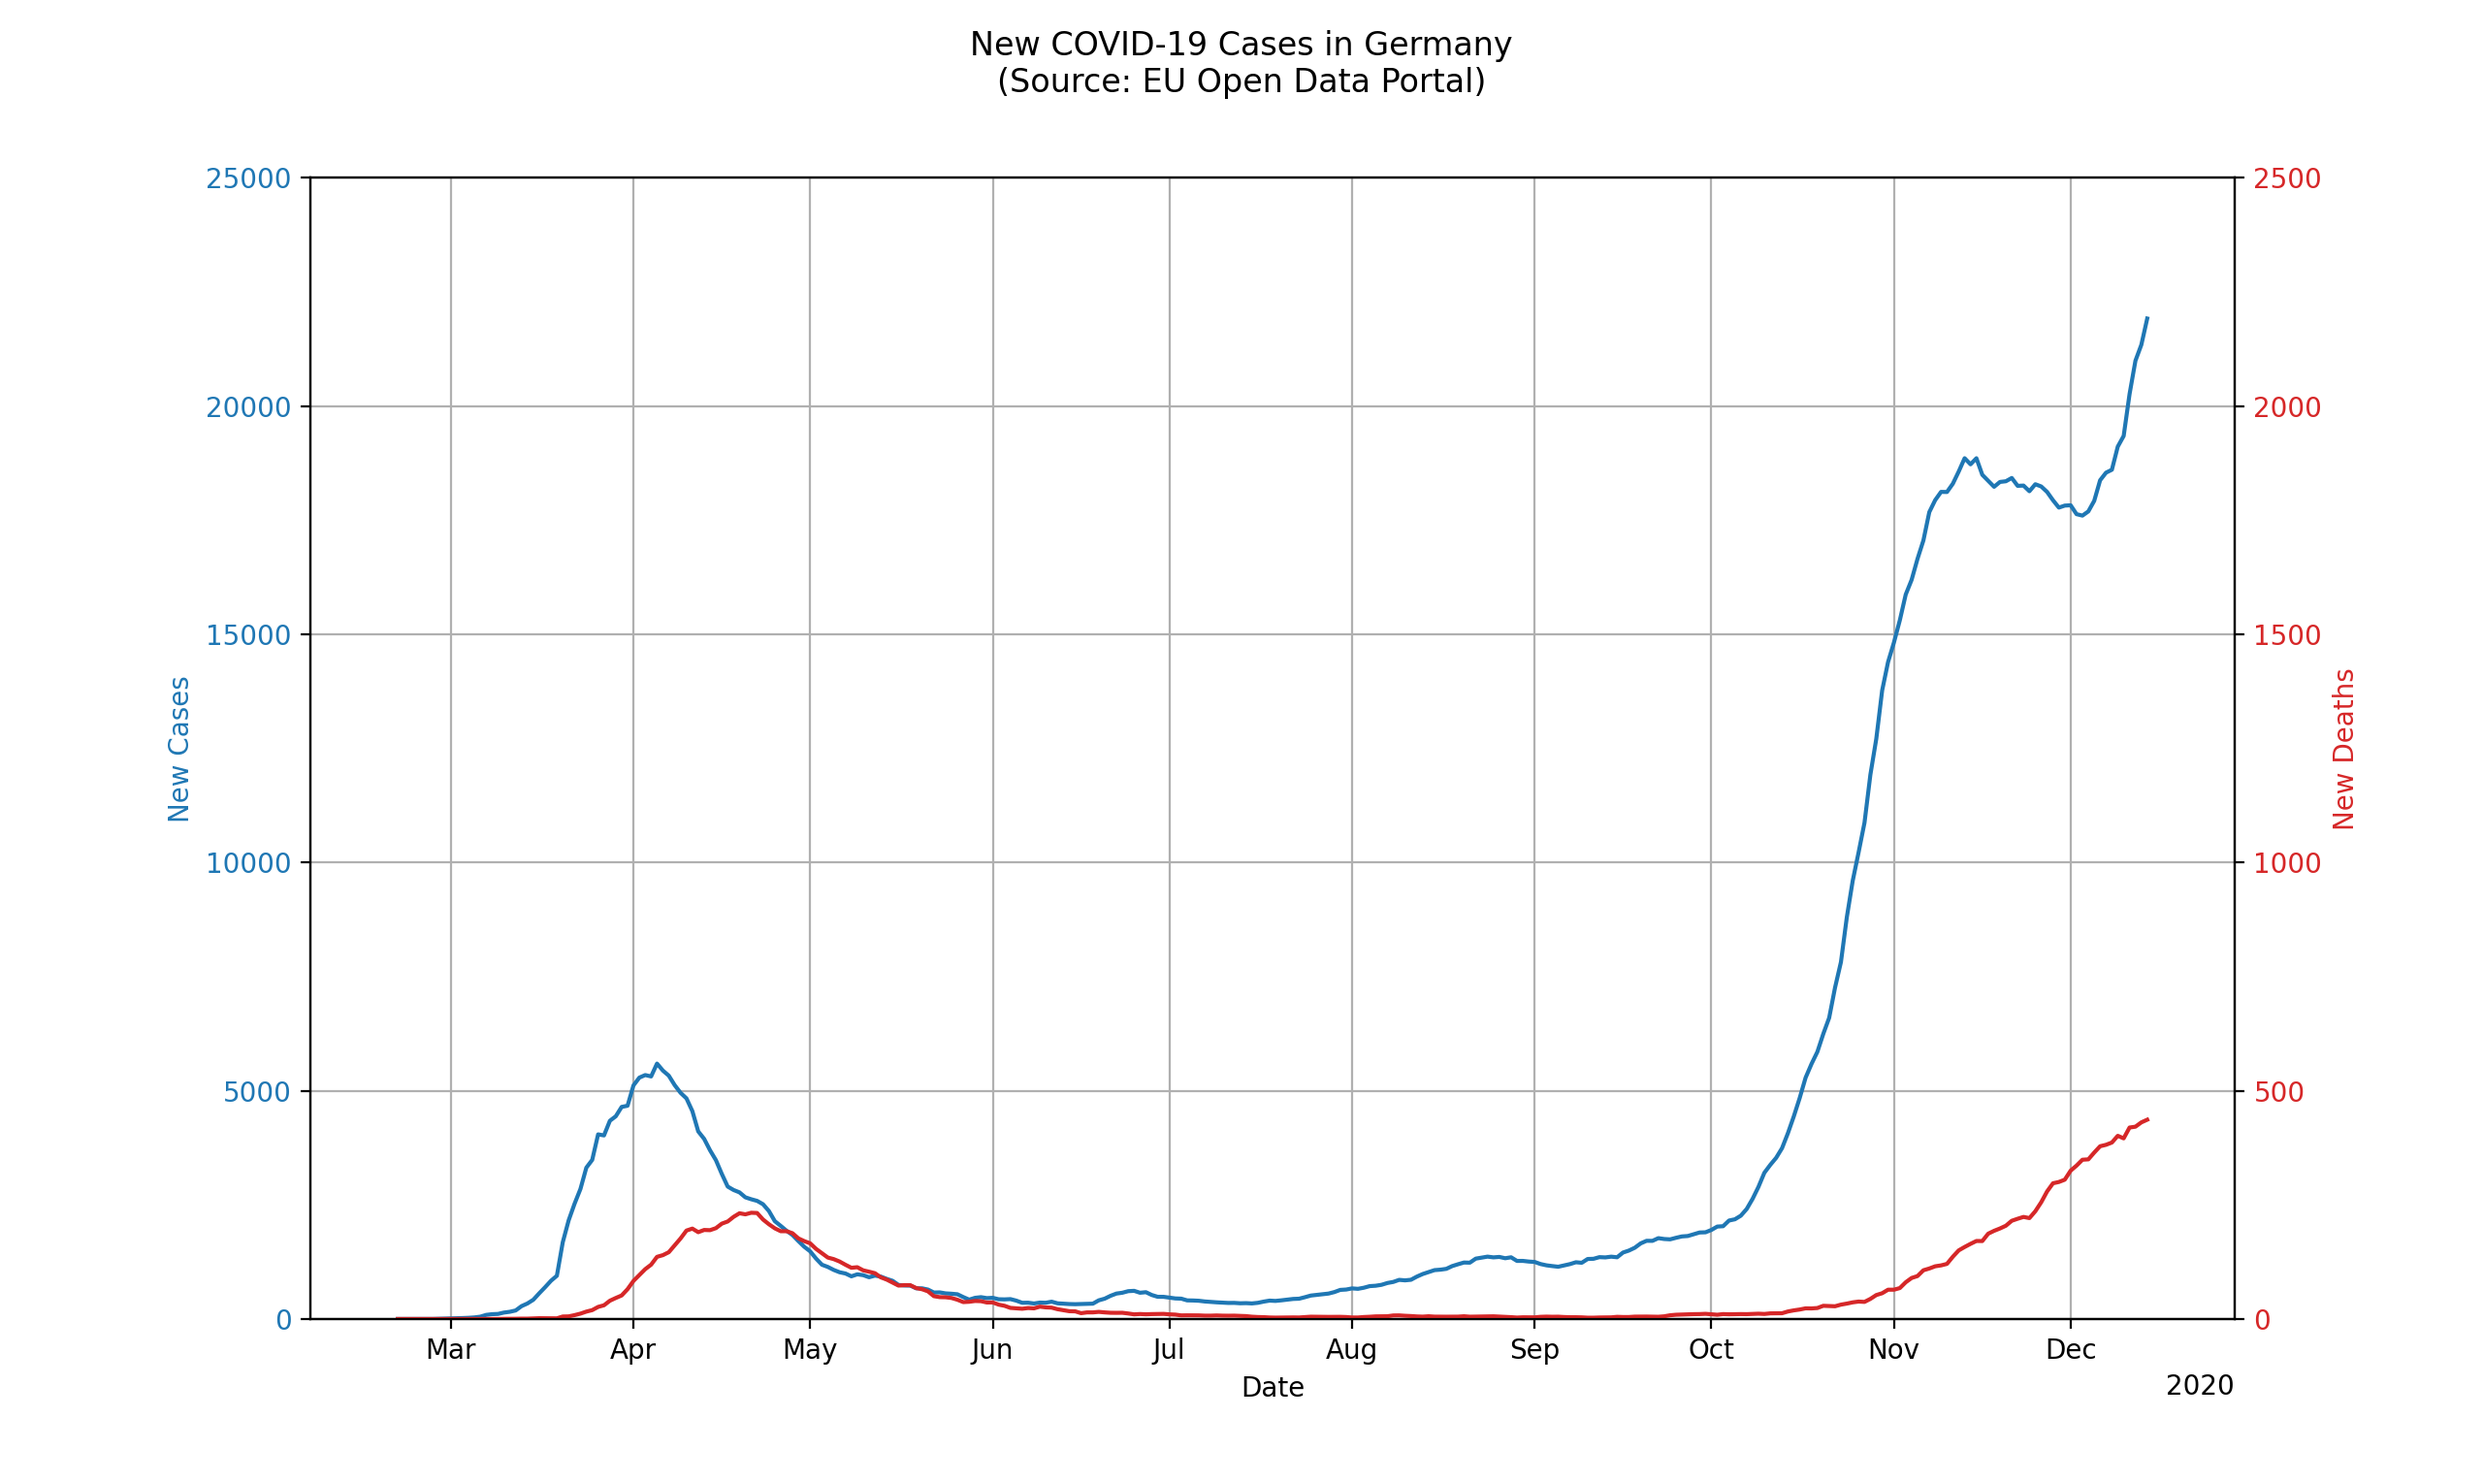
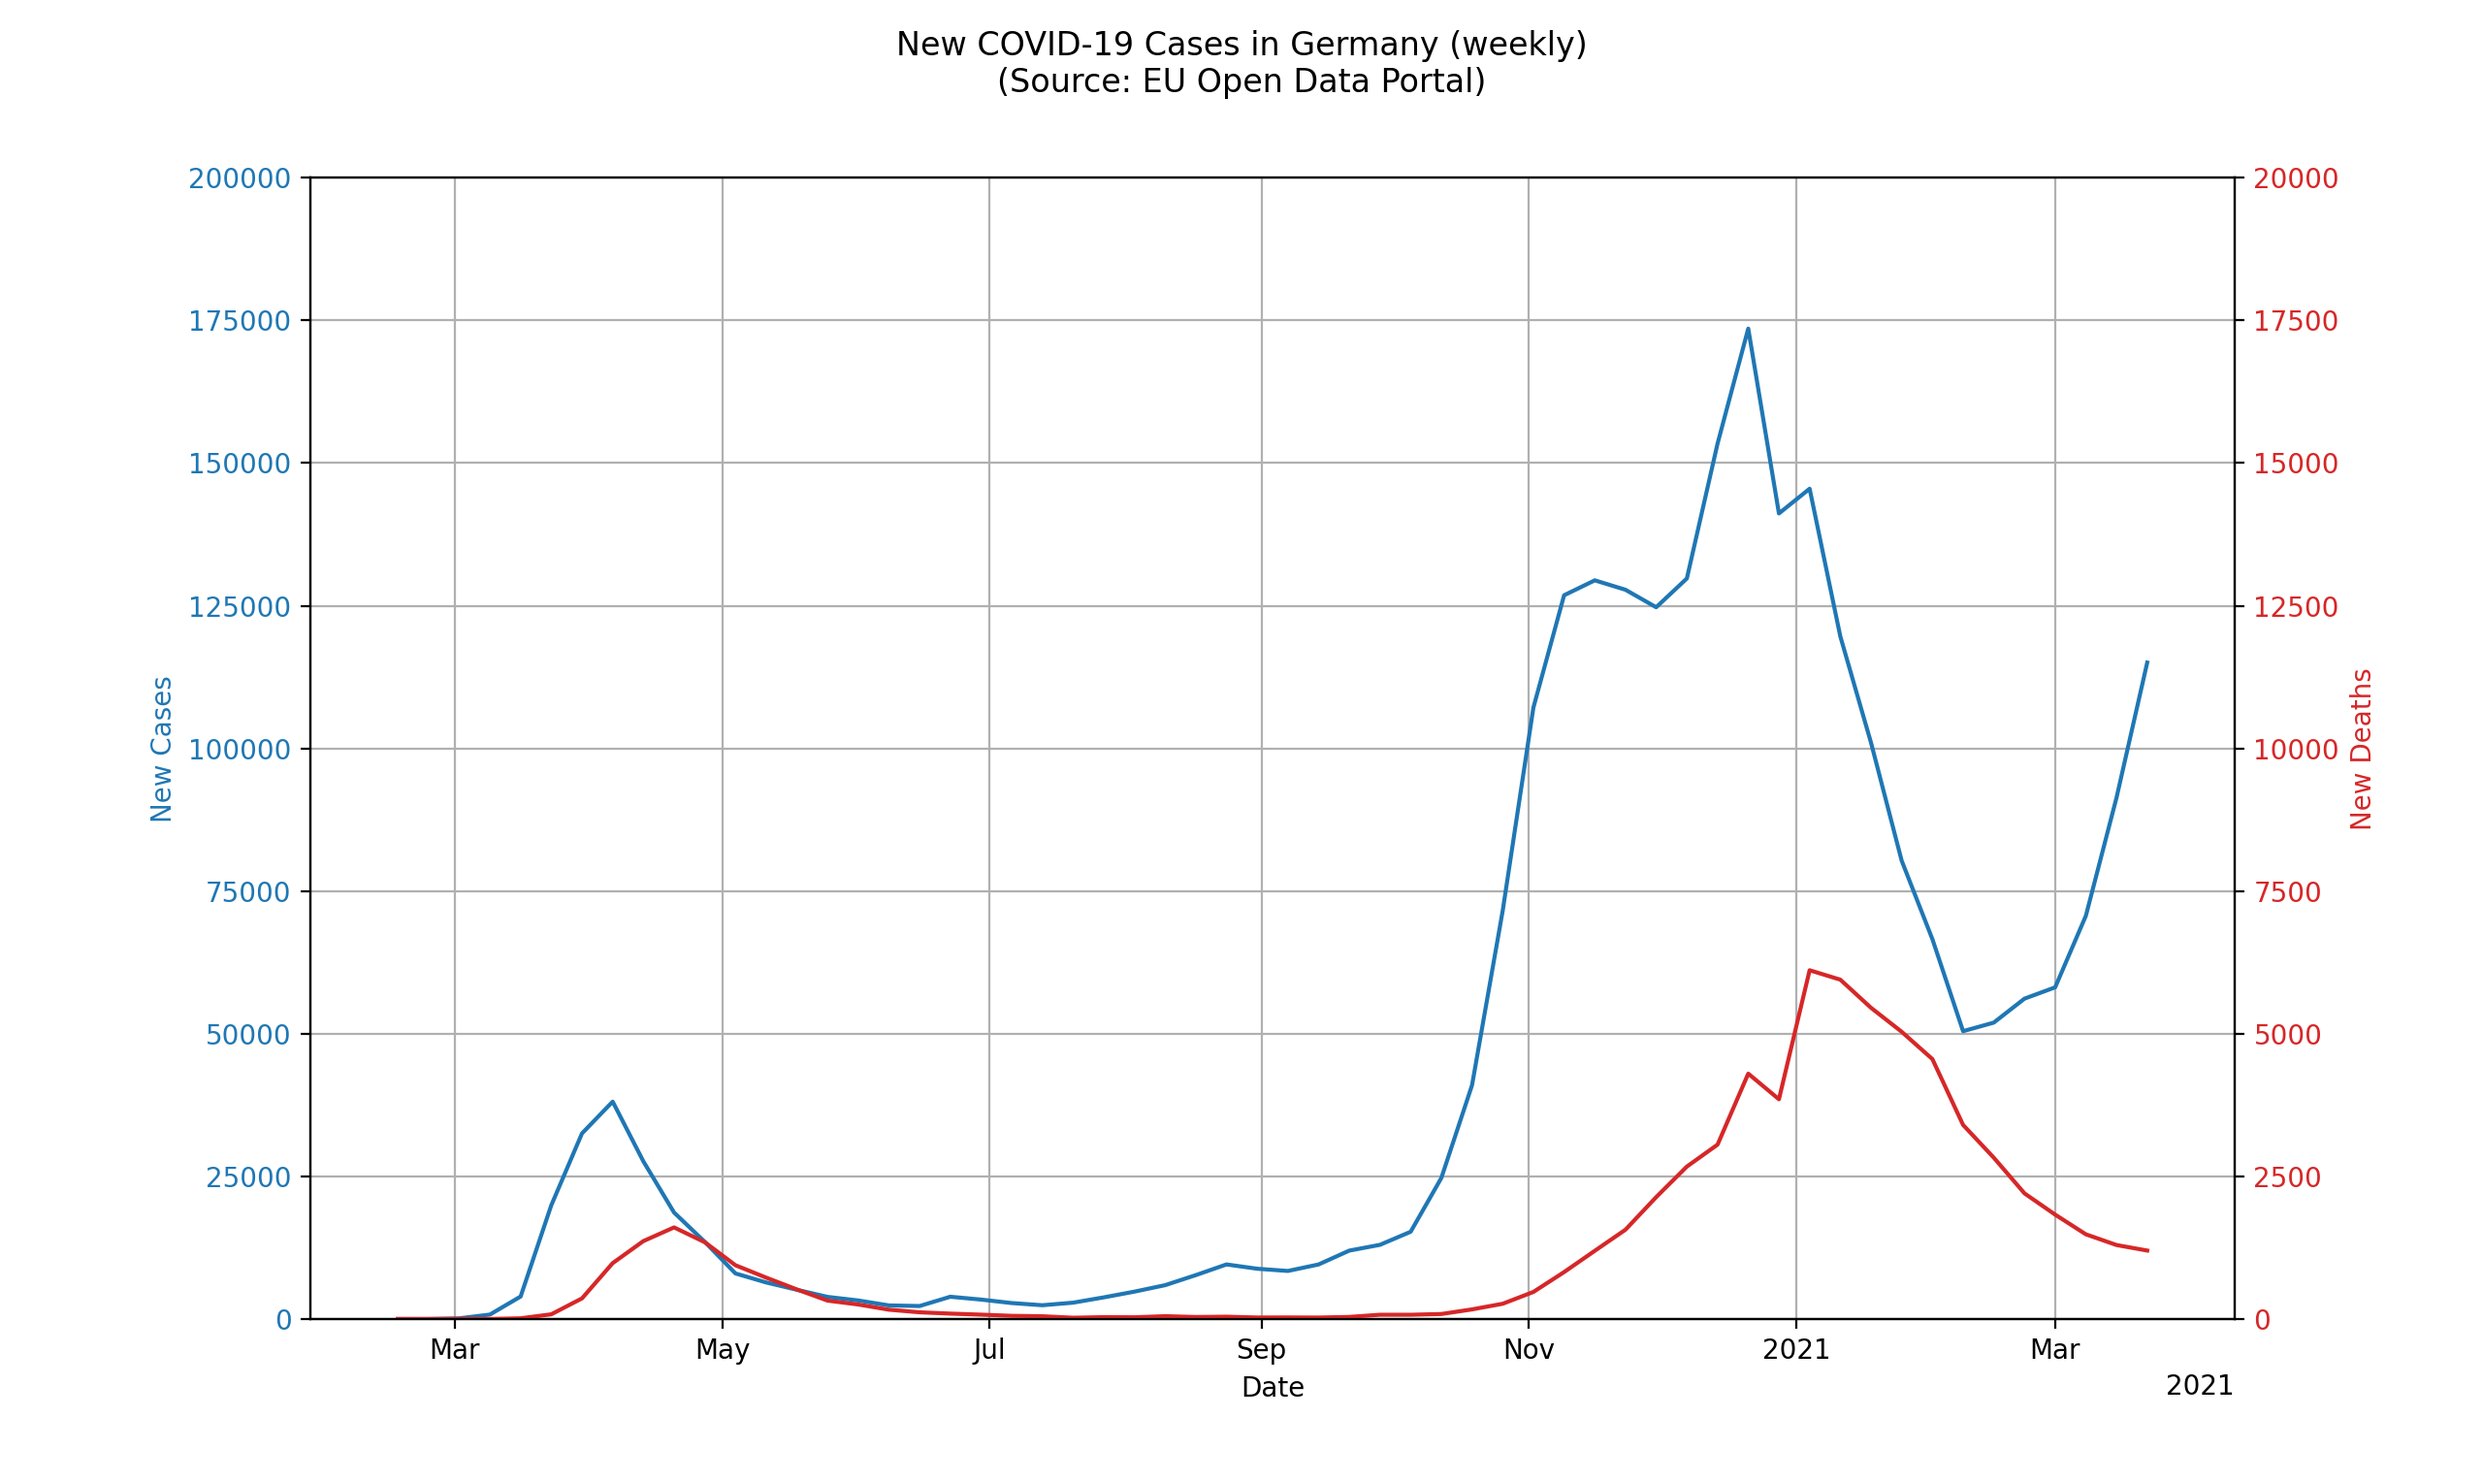
weekly update for 2021 added

diff --git a/corona_analysis.py b/corona_analysis.py
@@ -6,6 +6,7 @@ from matplotlib.ticker import FuncFormatter as frmt
 
 from models.BaseModel import db
 from models.CoronaCases import CoronaCases
+from models.CoronaCasesWeekly import CoronaCasesWeekly
 from models.DeathsGermany import DeathsGermany
 from models.RkiTests import RkiTests
 from models.DiviBeds import DiviBeds
@@ -18,11 +19,11 @@ def main():
     intensive_care_beds_germany()
 
 def corona_cases_germany():
-    query = CoronaCases\
+    query = CoronaCasesWeekly\
         .select()\
-        .where(CoronaCases.geo_id == "DE")\
-        .where(CoronaCases.date_reported >= "2020-02-15")\
-        .order_by(CoronaCases.date_reported)
+        .where(CoronaCasesWeekly.country_code == "DEU")\
+        .where(CoronaCasesWeekly.date_reported >= "2020-02-15")\
+        .order_by(CoronaCasesWeekly.date_reported)
 
     time = []
     cases = []
@@ -35,14 +36,14 @@ def corona_cases_germany():
     t = []
     a = []
     b = []
-    window = 7
+    window = 1
     stride = 1
     for i in range(0, len(time) - (window-1), stride):
         t.append(time[i+window-1])
         a.append((sum(cases[i:i+window])) / window)
         b.append((sum(deaths[i:i+window])) / window)
 
-    plt.suptitle('New COVID-19 Cases in Germany\n(Source: EU Open Data Portal)')
+    plt.suptitle('New COVID-19 Cases in Germany (weekly)\n(Source: EU Open Data Portal)')
 
     ax1 = plt.gca()
     color = 'tab:blue'
@@ -55,8 +56,8 @@ def corona_cases_germany():
     ax2.set_ylabel('New Deaths', color=color)
     ax2.plot(t, b, color=color)
     ax2.tick_params(axis='y', labelcolor=color)
-    ax1.set_ylim([0, 25000])
-    ax2.set_ylim([0, 2500])
+    ax1.set_ylim([0, 200000])
+    ax2.set_ylim([0, 20000])
     locator = mdates.AutoDateLocator()
     formatter = mdates.ConciseDateFormatter(locator)
     ax1.xaxis.set_major_locator(locator)
@@ -82,7 +83,7 @@ def positives_to_tests_germany():
         positives.append(item.positives / 1000)
         positives_ratio.append((item.positives / item.tests))
 
-    plt.suptitle('COVID-19 tests and positives compared\n(Source: Robert Koch Institute Germany)')
+    plt.suptitle('COVID-19 tests and positives compared (weekly)\n(Source: Robert Koch Institute Germany)')
 
     plt.subplot(2, 1, 1)
     ax1 = plt.gca()

diff --git a/corona_database.py b/corona_database.py
@@ -11,6 +11,7 @@ import corona_config as cfg
 
 from models.BaseModel import db
 from models.CoronaCases import CoronaCases
+from models.CoronaCasesWeekly import CoronaCasesWeekly
 from models.DeathsGermany import DeathsGermany
 from models.CountryData import CountryData
 from models.RkiTests import RkiTests
@@ -66,6 +67,7 @@ def download():
 def create_database():
     create_tables()
     import_corona_cases()
+    import_corona_cases_weekly()
     import_deaths_germany()
     import_rki_report_manual()
     import_beds_germany()
@@ -91,6 +93,7 @@ def main():
 def create_tables():
     db_models = [
         CoronaCases,
+        CoronaCasesWeekly,
         CountryData,
         DeathsGermany,
         RkiTests,
@@ -122,6 +125,35 @@ def import_corona_cases():
                     continent = row["continentExp"]
                 )
 
+def import_corona_cases_weekly():
+    print("import corona cases weekly table")
+
+    file_name = cfg.path_corona_cases_weekly
+    with open(file_name, 'r') as file_pointer:
+        reader = csv.DictReader(file_pointer, delimiter=',')
+
+        with db.transaction():
+            for row in reader:
+                year_week = row["year_week"]
+                date = datetime.datetime.strptime(year_week + "-1", "%Y-%W-%w")
+                year, week, day = date.isocalendar()
+
+                entry, created = CoronaCasesWeekly.get_or_create(
+                    date_reported = date,
+                    year = safe_cast(year, int, 0),
+                    week = safe_cast(week, int, 0),
+                    country_code = row["country_code"],
+                    population = safe_cast(row["population"], int, 0),
+                    continent = row["continent"],
+                    defaults = {"deaths" : 0, "cases" : 0}
+                )
+
+                if row["indicator"] == "cases":
+                    entry.cases = safe_cast(row["weekly_count"], int, 0)
+                elif row["indicator"] == "deaths":
+                    entry.deaths = safe_cast(row["weekly_count"], int, 0)
+
+                entry.save()
 
 def import_deaths_germany():
     print("import deaths germany table")

diff --git a/corona_config.py b/corona_config.py
@@ -3,24 +3,29 @@ data_folder = "./data"
 sources_folder = "./sources"
 
 file_corona_cases = "corona_cases.csv"
+file_corona_cases_weekly = "corona_cases_weekly.csv"
 file_deaths_germany = "deaths_germany.xlsx"
 csv_file_deaths_germany = "deaths_germany.csv"
 csv_file_tests_germany = "rki_tests.csv"
 csv_file_beds_germany = "divi_beds.csv"
 
 path_corona_cases = "{}/{}".format(data_folder, file_corona_cases)
+path_corona_cases_weekly = "{}/{}".format(data_folder, file_corona_cases_weekly)
 path_deaths_germany = "{}/{}".format(data_folder, file_deaths_germany)
 csv_path_deaths_germany = "{}/{}".format(data_folder, csv_file_deaths_germany)
 csv_path_tests_germany = "{}/{}".format(sources_folder, csv_file_tests_germany)
 csv_path_beds_germany = "{}/{}".format(sources_folder, csv_file_beds_germany)
 
 backup_path_corona_cases = "{}/backup_{}".format(data_folder, file_corona_cases)
+backup_path_corona_cases_weekly = "{}/backup_{}".format(data_folder, file_corona_cases_weekly)
 backup_path_deaths_germany = "{}/backup_{}".format(data_folder, file_deaths_germany)
 
 link_corona_cases = "https://opendata.ecdc.europa.eu/covid19/casedistribution/csv"
+link_corona_cases_weekly = "https://opendata.ecdc.europa.eu/covid19/nationalcasedeath/csv"
 link_deaths_germany = "https://www.destatis.de/DE/Themen/Gesellschaft-Umwelt/Bevoelkerung/Sterbefaelle-Lebenserwartung/Tabellen/sonderauswertung-sterbefaelle.xlsx?__blob=publicationFile"
 
 data_sources = [
     (link_corona_cases, path_corona_cases, backup_path_corona_cases),
+    (link_corona_cases_weekly, path_corona_cases_weekly, backup_path_corona_cases_weekly),
     (link_deaths_germany, path_deaths_germany, backup_path_deaths_germany),
 ]

diff --git a/models/CoronaCasesWeekly.py b/models/CoronaCasesWeekly.py
@@ -1,0 +1,21 @@
+import datetime
+
+from peewee import IntegerField, DateField, DateTimeField, CharField
+
+from models.BaseModel import BaseModel
+
+
+class CoronaCasesWeekly(BaseModel):
+    class Meta:
+        table_name = "corona_cases_weekly"
+
+    date_reported = DateTimeField()
+    year = IntegerField()
+    week = IntegerField()
+    cases = IntegerField()
+    deaths = IntegerField()
+    country_code = CharField()
+    population = IntegerField()
+    continent = CharField()
+
+    processed = DateTimeField(default=datetime.datetime.now)

diff --git a/README.md b/README.md
@@ -29,7 +29,7 @@ If you follow these steps you will find a `data.sqlite` file in the `/data` fold
 
 
 ## Database schema
-Fields in Table: `corona_cases`
+Fields in Table: `corona_cases` (obsolete, only till 14. December 2020)
 * date reported
 * day
 * month
@@ -38,6 +38,16 @@ Fields in Table: `corona_cases`
 * deaths
 * country
 * geo id
+* country code
+* population
+* continent
+* processed (time of insertion into database)
+
+Fields in Table: `corona_cases_weekly` (new, since 14. December 2020)
+* year
+* week
+* cases
+* deaths
 * country code
 * population
 * continent
@@ -68,7 +78,8 @@ Fields in Table `divi_beds`
 
 ## Sources
 The integrated sources so far consist of:
-* the total number of COVID-19 cases reported worlwide, comming from the EU Open Data Portal (https://data.europa.eu/euodp/en/data/dataset/covid-19-coronavirus-data) 
+* the total number of COVID-19 cases reported worlwide daily (obsolete), comming from the EU Open Data Portal (https://data.europa.eu/euodp/en/data/dataset/covid-19-coronavirus-data) 
+* the total number of COVID-19 cases reported worlwide weekly, comming from the EU Open Data Portal (https://data.europa.eu/euodp/en/data/dataset/covid-19-coronavirus-data-weekly-from-17-december-2020) 
 * the total number of all cause deaths in Germany, reported by the Statistisches Bundesamt (https://www.destatis.de/DE/Themen/Gesellschaft-Umwelt/Bevoelkerung/Sterbefaelle-Lebenserwartung/Tabellen/sonderauswertung-sterbefaelle.html)
 * the total number of performed COVID-19 tests in Germany, reported by the Robert Koch Institute (https://www.rki.de/DE/Content/InfAZ/N/Neuartiges_Coronavirus/Testzahl.html)
 * the total number of used intensive care beds in germany, reported by the DIVI-Intensivregister in Germany (https://www.intensivregister.de)
@@ -93,12 +104,12 @@ The source code can be found in the function `intensive_care_beds_germany` in `c
 ![](results/intensive_care_beds_germany.png)
 
 ### COVID-19 positives compared to total tests
-The source code can be found in the function `positives_to_tests_germany` in `corona_analysis.py`. 
+The source code can be found in the function `positives_to_tests_germany` in `corona_analysis.py`. This curve shows the weekly total tests taken in relation to the positive results.
 
 ![](results/test_positive_ratio_germany.png)
 
 ### New COVID-19 cases/deaths per day in germany
-The source code can be found in the function `corona_cases_germany` in `corona_analysis.py`. This curve is smoothed by averaging each day with 7 days before (sliding window smoothing with a window size of 7 and a stride of 1).
+The source code can be found in the function `corona_cases_germany` in `corona_analysis.py`. This curve shows the weekly sum of cases and deaths in germany.
 
 **Note**: One can see that (if scaled to match) the COVID-19 cases and the deaths are correlated by a delay of about 10 to 15 days.
 
